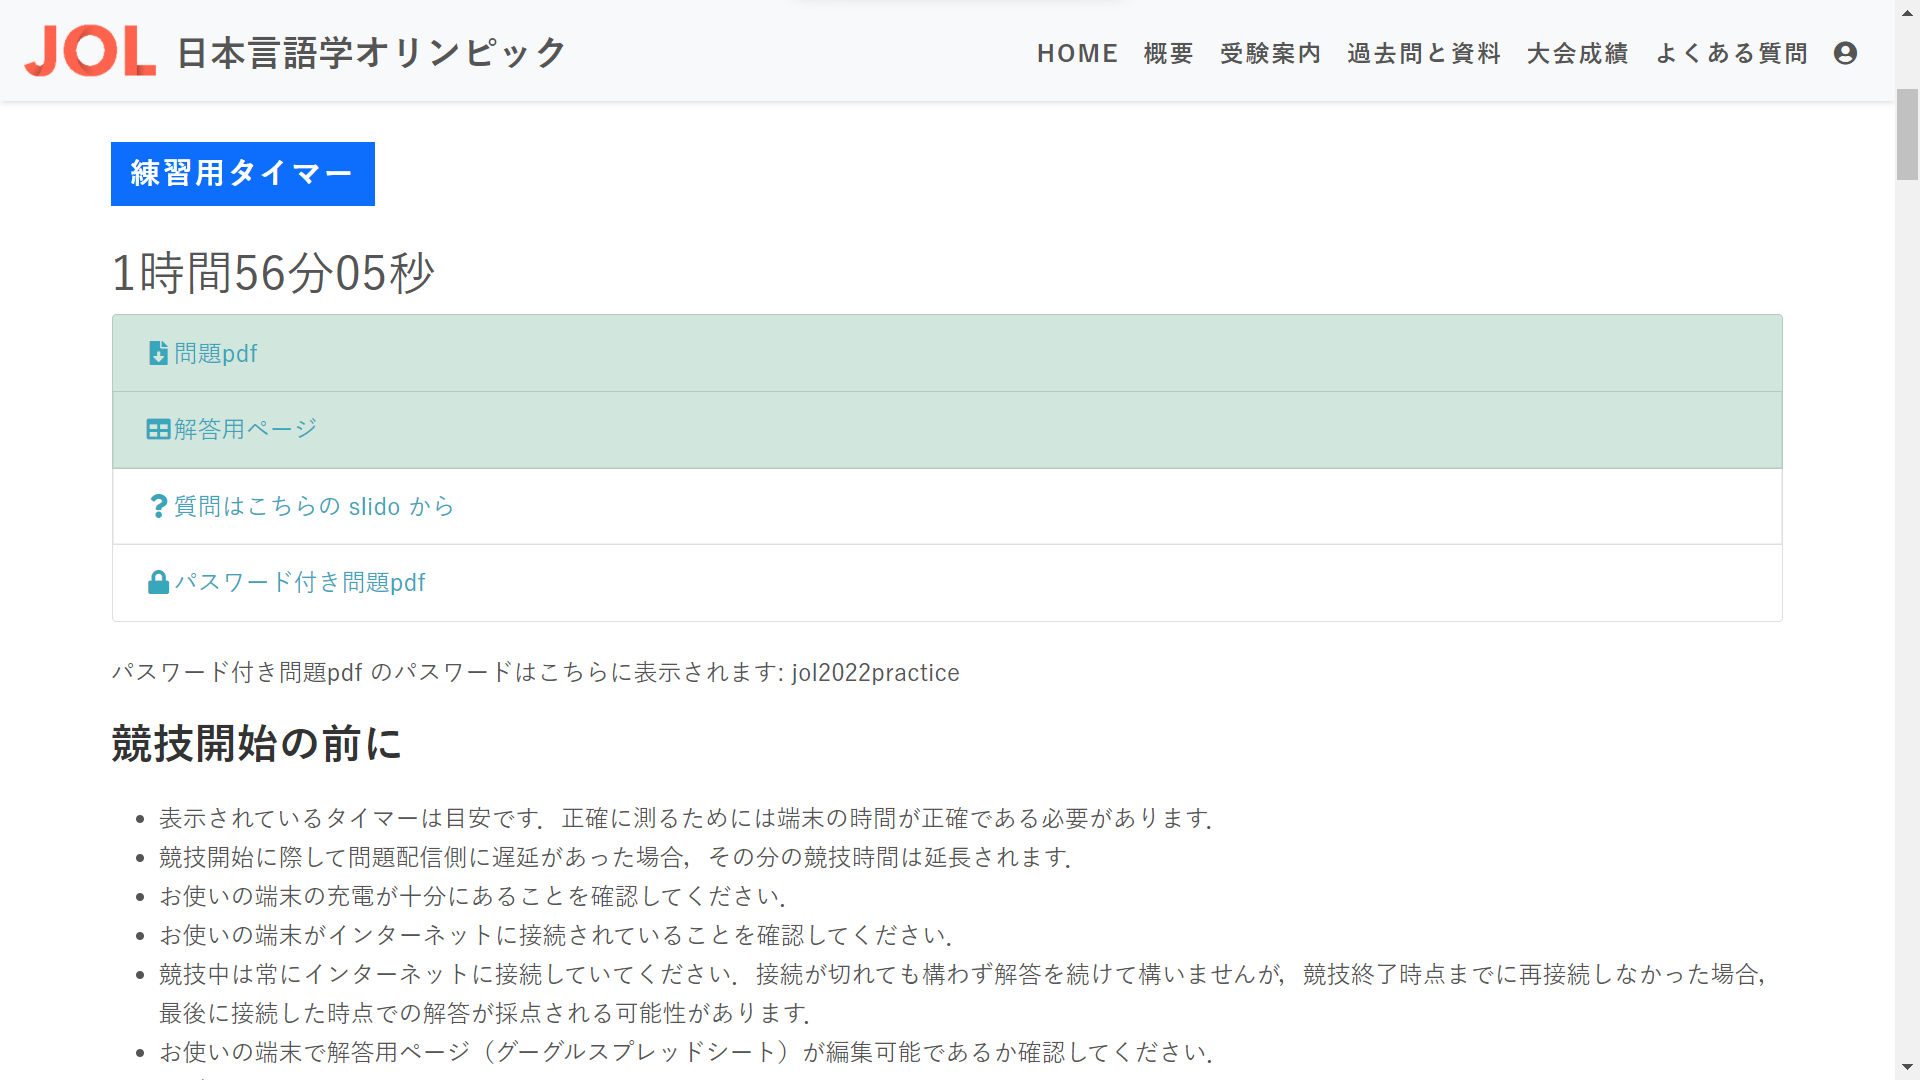
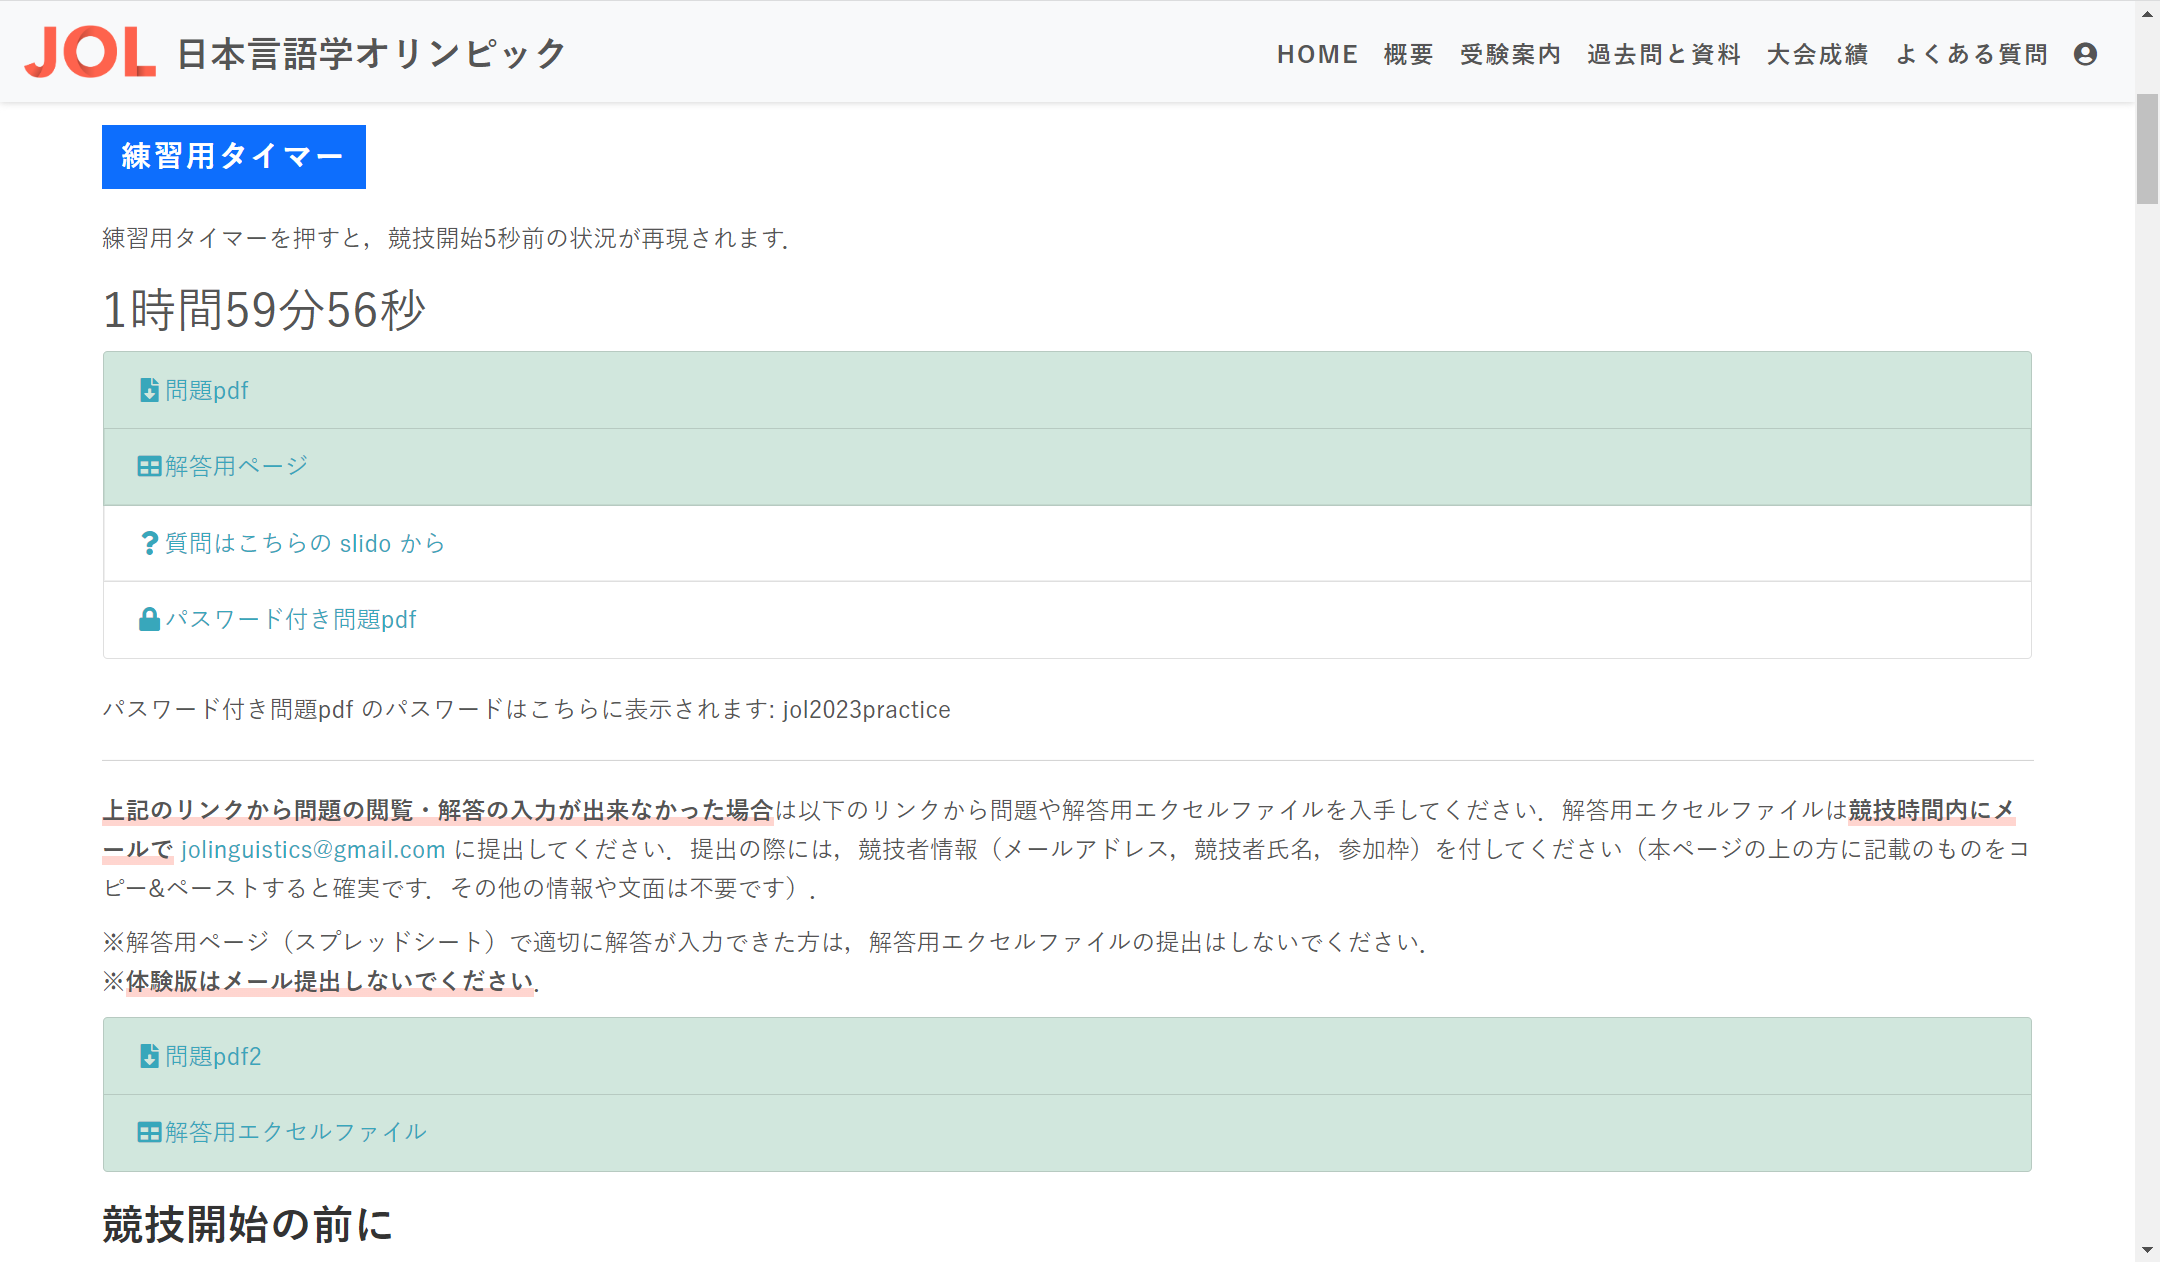
JOL2023事前練習 更新

Changed region(s): [[0.0312, 0.6111, 0.9375, 1.0], [0.0, 0.0, 0.9375, 0.5806], [0.5312, 0.0306, 0.9688, 0.0611]]

diff --git a/content/contest/jol2023/demo.md b/content/contest/jol2023/demo.md
@@ -47,7 +47,7 @@ isFBInit = false
 <li><a target="_blank">{{< icon file-download 問題pdf>}}</a></li>
 <li><a target="_blank">{{< icon table 解答用ページ >}}</a></li>
 <li><a href="https://app.sli.do/event/7S1g4NNgjGgg4VbAs8Wj4J" target="_blank">{{< icon question "質問はこちらの slido から">}}</a></li>
-<li><a href="https://drive.google.com/file/d/1YCoD30f1YxcUSSegRQXABroS4UMIa92g/view?usp=sharing" target="_blank">{{< icon lock パスワード付き問題pdf >}}</a></li>
+<li><a href="https://drive.google.com/file/d/1l8XqmydMqQCB2W9tAPk7Fe-F7SUbfM3i/view?usp=share_link" target="_blank">{{< icon lock パスワード付き問題pdf >}}</a></li>
 </ul>
 
 {{< /list >}}
@@ -59,7 +59,8 @@ isFBInit = false
 
 **上記のリンクから問題の閲覧・解答の入力が出来なかった場合**は以下のリンクから問題や解答用エクセルファイルを入手してください．解答用エクセルファイルは**競技時間内にメールで** {{< email >}} に提出してください．提出の際には，競技者情報（メールアドレス，競技者氏名，参加枠）を付してください（本ページの上の方に記載のものをコピー&ペーストすると確実です．その他の情報や文面は不要です）．
 
-※解答用ページ（スプレッドシート）で適切に解答が入力できた方は，解答用エクセルファイルの提出はしないでください．
+※解答用ページ（スプレッドシート）で適切に解答が入力できた方は，解答用エクセルファイルの提出はしないでください．  
+※**体験版はメール提出しないでください**．
 
 {{< card-header >}}
 {{< list class="list-group list-fill-link" liclass="list-group-item" id="links2">}}
@@ -163,7 +164,7 @@ isFBInit = false
 {{< /table >}}
 {{< /simplebox >}}
 
-- 設問と配点は必ずしも対応しません．複数の設問に正解して初めて点が与えられる場合もあります．
+- **設問と配点は必ずしも対応しません**．複数の設問に正解して初めて点が与えられる場合もあります．
 
 {{< simplebox "例題2（3点）" "ms-4" >}}
 
@@ -287,7 +288,7 @@ isFBInit = false
 
 {{< figure src="/img/jol2022/before_demo.png">}}
 
-質問用ページ（slido）にアクセスするとこのようになっています．Type your question から質問を記入してください．随時，競技監督者が質問に答えます．質問への回答には多少時間がかかる可能性がありますので，質問への回答を待つ間も，問題を解き進めていてください．ただし，個人情報を含む質問はメールでお問い合わせください．
+質問用ページ（slido）にアクセスするとこのようになっています．「質問を入力」から質問を記入してください．随時，競技監督者が質問に答えます．質問への回答には多少時間がかかる可能性がありますので，質問への回答を待つ間も，問題を解き進めていてください．ただし，個人情報を含む質問はメールでお問い合わせください．
 
 {{< figure src="/img/jol2022/slido_demo.png">}}
 
@@ -311,13 +312,9 @@ isFBInit = false
 
 {{< figure src="/img/jol2022/downloaded_demo.png">}}
 
-競技開始時間になったら表示される（パスワードなしの）問題pdf へのリンクから問題pdf を閲覧する場合，問題pdf はこのように開かれます．
+競技開始時間になったら表示される（パスワードなしの）問題pdf へのリンクから問題pdf を閲覧する場合，問題pdf はこのように開かれます．問題が見られるようになると印刷もできるようになります．
 
 {{< figure src="/img/jol2022/problem_demo.png">}}
-
-問題が見られるようになると印刷もできるようになります．
-
-{{< figure src="/img/jol2022/print.png">}}
 
 解答用ページは競技開始時間になったら表示される解答用ページへのリンクからアクセスしてください．解答用ページはグーグルスプレッドシートを利用します．解答はインターネットに接続されている限り自動で保存されるため提出のために特別な操作は必要ありません．
 
